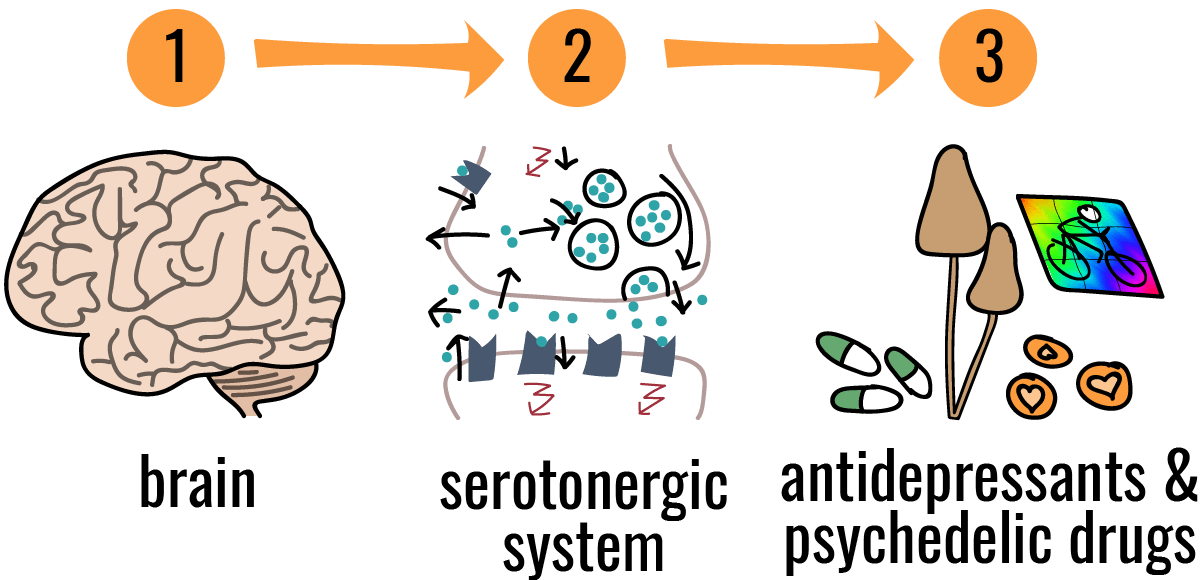
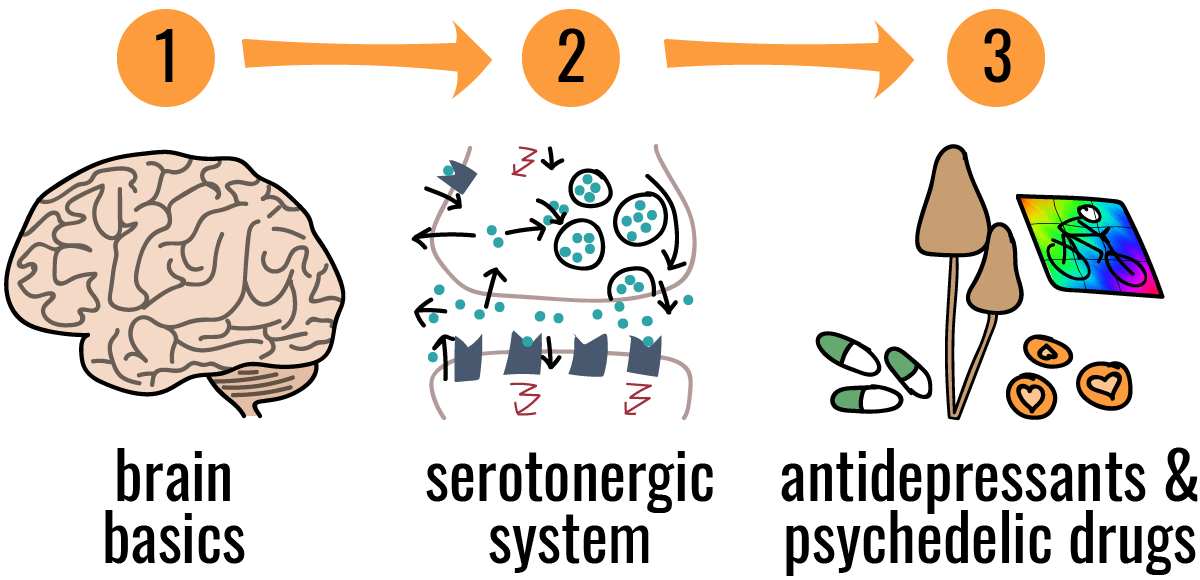
Change copy and image

diff --git a/_posts/2017-05-31-serotonin.md b/_posts/2017-05-31-serotonin.md
@@ -10,22 +10,16 @@ twitter:
    large: true
 ---
 
-**Most everyone knows someone who has taken antidepressants. But psychedelic drugs? Many people think they are exotic, dangerous substances. You might be surprised to hear that psychedelic drugs like MDMA or LSD have a lot in common with antidepressants. They both work with the same neurotransmitter in the brain: serotonin.**
+**Most of us know someone who has taken antidepressants. But psychedelic drugs? Not so much. Many people believe they are illegitimate and dangerous. You might be surprised to hear that psychedelic drugs like MDMA and LSD have a lot in common with antidepressants. They both work with the same neurotransmitter in the brain: serotonin.**
 
-And indeed, both classes of drugs promise to heal similar mental illnesses and reportedly, have similar side effects. Do you how they work in the brain? No?—Good! That’s exactly what this article is about. But before we talk about your brain on psychedelic drugs and antidepressants, we have to get a good understanding of the underlying serotonergic system in the brain. I promise, you’ll be fascinated.
+And indeed, antidepressants and psychedelic drugs promise to heal similar mental illnesses and can also have similar side effects. Do you know how they work in the brain? No? Good! That’s exactly what this article is about. Before we can talk about your brain on these drugs, though, it's important to have a basic understanding of the brain and its _serotonergic system_. Don't worry, it's super fascinating stuff, and easy as 1-2-3:
 
 ![You can't understand psychedelic drugs and antidepressants without understanding the serotonergic system in the brain first]({{ site.url }}/images/serotonin/brain-serotonergic-system-SSRI-psychedelic-drugs@2x.png)
 
 <!--more-->
 
-# 1. The brain
-We’ll talk about neurotransmitters, synapses and chemical signaling. If these things are vaguely familiar to you—read on. If not, I recommend reading part 2 of Tim Urban’s fantastic—and highly entertaining—[Neuralink and the Brain's Magical Future](http://waitbutwhy.com/2017/04/neuralink.html#part2){:target="_blank"} story on the _Wait But Why_ blog. You’ll learn everything from brain anatomy to neural networks in just 15 minutes.
-
-If you chose to skip the brain fundamentals, you might have to google a few things on the way. No worries, you'll manage. Your brain is well equipped for the task with its[^brain]
-- 100 types of neurotransmitters   _(one hundred)_
-- 100,000,000,000 neurons   _(one hundred billion)_
-- 1,000,000,000,000 glial cells   _(one trillion)_
-- 1,000,000,000,000,000 synapses  _(one quadrillion)_
+# 1. Brain basics
+Below, we’ll talk about neurotransmitters, synapses and chemical signaling. If these things are even vaguely familiar to you, then read on. If not, I recommend reading part 2 of Tim Urban’s fantastic—and highly entertaining—[Neuralink and the Brain's Magical Future](http://waitbutwhy.com/2017/04/neuralink.html#part2){:target="_blank"} story on the _Wait But Why_ blog. You’ll learn everything from brain anatomy to neural networks in just 15 minutes.
 
 ## How neurons communicate
 When a neuron _fires_, the cell body (_soma_) sends an electrical signal down its _axon_ to its _axon terminals_. This is where one neuron connects to the _dendrites_ of the next neuron. In between is the _synapse_. From the axon terminals, a chemical signal activates the dendrites and sends a message to the soma of the next neuron. The soma collects the messages and once a threshold is exceeded, it fires off an electrical signal down its own axon and the process repeats.
